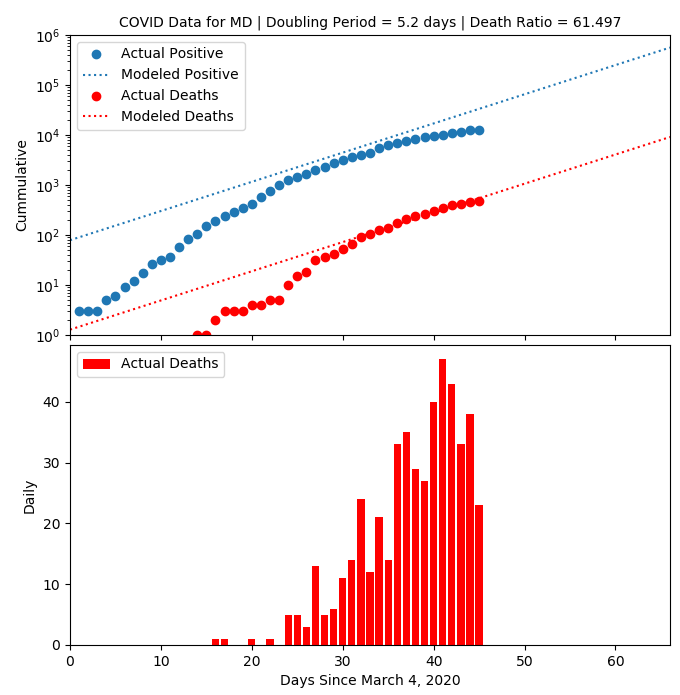
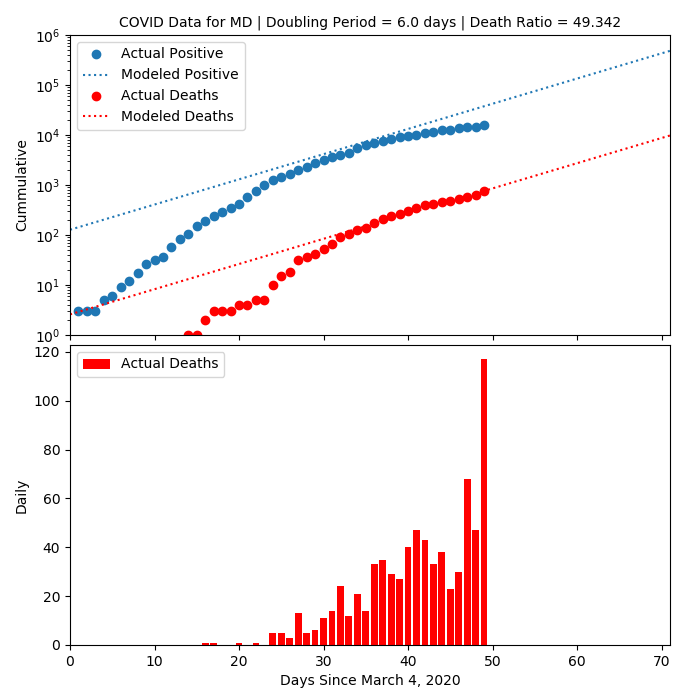
mods

diff --git a/plot_covid_2.py b/plot_covid_2.py
@@ -79,7 +79,7 @@ class update_covid:
         return np.median(ratio)
 
     def extrapolate_fit(self):
-        days = np.arange(120)
+        days = np.arange(365)
         pfit = funct(days, self.popt[0], self.popt[1])
         match = np.where(pfit <= 1.0E+4)
         days = days[match]
